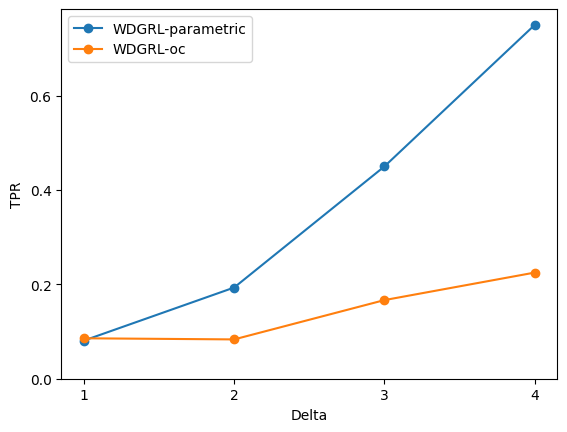
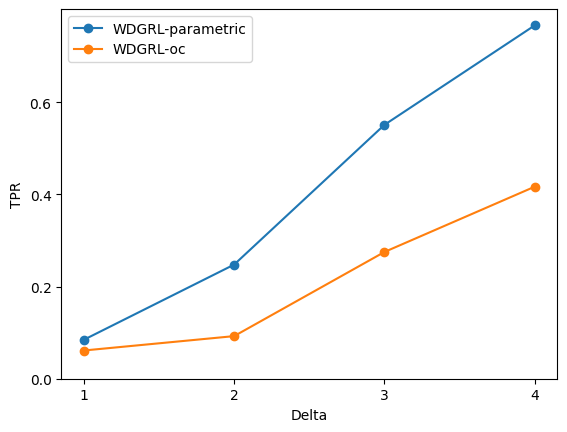
adding parametric_si for WDGRL_AE and finish running results

diff --git a/AE/parametric_tpr.py b/AE/parametric_tpr.py
@@ -2,27 +2,28 @@ from util import *
 import torch
 from multiprocessing import Pool
 import os
-from model import WDGRL
+from model import WDGRL, AutoEncoder
 import numpy as np
 
 def run_tpr(self):
-    _, delta, Model = self
+    _, delta, wdgrl, ae = self
     # Create a new instance of the WDGRL model (same architecture as before)
-    ns, nt, d = 150, 75, 1
+    ns, nt, d = 150, 25, 1
     mu_s, mu_t = 0, 2
     delta_s, delta_t = [0, 1, 2, 3, 4], [delta]
     xs, ys = gen_data(mu_s, delta_s, ns, d)
     xt, yt = gen_data(mu_t, delta_t, nt, d)
 
-    Model.generator = Model.generator.cuda()
+    wdgrl.generator = wdgrl.generator.cuda()
+    ae.net = ae.net.cuda()
 
     xs = torch.FloatTensor(xs)
     ys = torch.LongTensor(ys)
     xt = torch.FloatTensor(xt)
     yt = torch.LongTensor(yt)
 
-    xs_hat = Model.extract_feature(xs.cuda())
-    xt_hat = Model.extract_feature(xt.cuda())
+    xs_hat = wdgrl.extract_feature(xs.cuda())
+    xt_hat = wdgrl.extract_feature(xt.cuda())
     x_hat = torch.cat([xs_hat, xt_hat], dim=0)
 
     xs_hat = xs_hat.cpu()
@@ -32,8 +33,10 @@ def run_tpr(self):
     xt = xt.cpu()
     ys = ys.cpu()
     yt = yt.cpu()
-    alpha = 2.5
-    O = MAD_AD(xs_hat.numpy(), xt_hat.numpy(), alpha)
+    alpha = 0.05
+    O = AE_AD(xs_hat, xt_hat, ae, alpha)
+    reconstruction_loss = ae.reconstruction_loss(x_hat.to(ae.device))
+    reconstruction_loss = [i.item() for i in reconstruction_loss]
     # print(len(O))
     if (len(O) == 0) or (len(O) == nt):
         return None
@@ -68,7 +71,7 @@ def run_tpr(self):
     b = sigma.dot(etaj).dot(np.linalg.inv(etajTsigmaetaj))
     a = (np.identity(ns+nt) - b.dot(etaj.T)).dot(X)
     threshold = 20
-    list_zk, list_Oz = run_parametric_wdgrl(X, etaj, ns+nt, threshold, Model, ns, nt, alpha, O)
+    list_zk, list_Oz = run_parametric_si(X, etaj, ns+nt, threshold, wdgrl, ae, alpha, ns)
     CDF = cdf(etajTmu[0][0], np.sqrt(etajTsigmaetaj[0][0]), list_zk, list_Oz, etajTx[0][0], O)
     p_value = 2 * min(CDF, 1 - CDF)
     print(f'p-value: {p_value}')
@@ -86,9 +89,9 @@ if __name__ == '__main__':
     d = 1
     generator_hidden_dims = [4, 4, 2]
     critic_hidden_dims = [4, 2, 1]
-    Model = WDGRL(input_dim=d, generator_hidden_dims=generator_hidden_dims, critic_hidden_dims=critic_hidden_dims)
+    wdgrl = WDGRL(input_dim=d, generator_hidden_dims=generator_hidden_dims, critic_hidden_dims=critic_hidden_dims)
     index = None
-    with open("model/models.txt", "r") as f:
+    with open("model/wdgrl_models.txt", "r") as f:
         lines = f.readlines()
         for i, line in enumerate(lines):
             words = line[:-1].split("/")
@@ -98,11 +101,31 @@ if __name__ == '__main__':
     if index is None:
         print("Model not found")
         exit()
-    check_point = torch.load(f"model/wdgrl_{index}.pth", map_location=Model.device, weights_only=True)
-    Model.generator.load_state_dict(check_point['generator_state_dict'])
-    Model.critic.load_state_dict(check_point['critic_state_dict'])
-    Model.generator = Model.generator.cpu()
-    list_model = [Model for _ in range(max_iter)] 
+    check_point = torch.load(f"model/wdgrl_{index}.pth", map_location=wdgrl.device, weights_only=True)
+    wdgrl.generator.load_state_dict(check_point['generator_state_dict'])
+    wdgrl.critic.load_state_dict(check_point['critic_state_dict'])
+    wdgrl.generator = wdgrl.generator.cpu()
+
+    input_dim = generator_hidden_dims[-1]
+    encoder_hidden_dims = [2, 2, 1]
+    decoder_hidden_dims = [2, 2]
+    ae = AutoEncoder(input_dim=input_dim, encoder_hidden_dims=encoder_hidden_dims, decoder_hidden_dims=decoder_hidden_dims)
+    index = None
+    with open("model/ae_models.txt", "r") as f:
+        lines = f.readlines()
+        for i, line in enumerate(lines):
+            words = line[:-1].split("/")
+            if words[1] == str(input_dim) and words[2] == str(encoder_hidden_dims) and words[3] == str(decoder_hidden_dims):
+                index = i
+                break
+    if index is None:
+        print("Model not found")
+        exit()
+    check_point = torch.load(f"model/ae_{index}.pth", map_location=ae.device, weights_only=True)
+    ae.load_state_dict(check_point['state_dict'])
+    ae.net = ae.net.cpu()
+    list_wdgrl = [wdgrl for i in range(max_iter)]
+    list_ae = [ae for i in range(max_iter)]
     with open('results/tpr_parametric.txt', 'w') as f:
         f.write('')
     for delta in reversed(range(1, 5)):
@@ -110,7 +133,7 @@ if __name__ == '__main__':
         detect = 0
         list_p_value = []
         pool = Pool(initializer=np.random.seed)
-        list_result = pool.map(run_tpr, zip(range(max_iter),[delta]*max_iter, list_model))
+        list_result = pool.map(run_tpr, zip(range(max_iter),[delta]*max_iter, list_wdgrl, list_ae))
         pool.close()
         pool.join()
 

diff --git a/AE/oc_tpr.py b/AE/oc_tpr.py
@@ -2,11 +2,11 @@ from util import *
 import torch
 from multiprocessing import Pool
 import os
-from model import WDGRL
+from model import WDGRL, AutoEncoder
 import numpy as np
 
 def run_tpr(self):
-    _, delta, Model = self
+    _, delta, wdgrl, ae = self
     # Create a new instance of the WDGRL model (same architecture as before)
     ns, nt, d = 150, 75, 1
     mu_s, mu_t = 0, 2
@@ -14,15 +14,16 @@ def run_tpr(self):
     xs, ys = gen_data(mu_s, delta_s, ns, d)
     xt, yt = gen_data(mu_t, delta_t, nt, d)
 
-    Model.generator = Model.generator.cuda()
+    wdgrl.generator = wdgrl.generator.cuda()
+    ae.net = ae.net.cuda()
 
     xs = torch.FloatTensor(xs)
     ys = torch.LongTensor(ys)
     xt = torch.FloatTensor(xt)
     yt = torch.LongTensor(yt)
 
-    xs_hat = Model.extract_feature(xs.cuda())
-    xt_hat = Model.extract_feature(xt.cuda())
+    xs_hat = wdgrl.extract_feature(xs.cuda())
+    xt_hat = wdgrl.extract_feature(xt.cuda())
     x_hat = torch.cat([xs_hat, xt_hat], dim=0)
 
     xs_hat = xs_hat.cpu()
@@ -32,8 +33,11 @@ def run_tpr(self):
     xt = xt.cpu()
     ys = ys.cpu()
     yt = yt.cpu()
-    alpha = 2.5
-    O = MAD_AD(xs_hat.numpy(), xt_hat.numpy(), alpha)
+    alpha = 0.05
+    O = AE_AD(xs_hat, xt_hat, ae, alpha)
+    X_tilde = ae.forward(x_hat.to(ae.device))
+    reconstruction_loss = ae.reconstruction_loss(x_hat.to(ae.device))
+    reconstruction_loss = [i.item() for i in reconstruction_loss]
     # print(len(O))
     if (len(O) == 0) or (len(O) == nt):
         return None
@@ -65,7 +69,7 @@ def run_tpr(self):
     
     b = sigma.dot(etaj).dot(np.linalg.inv(etajTsigmaetaj))
     a = (np.identity(ns+nt) - b.dot(etaj.T)).dot(X)
-    itv = get_ad_interval(X, x_hat, ns, nt, O, a, b, Model, alpha)
+    itv = get_ad_interval(X, x_hat, X_tilde, reconstruction_loss, a, b, wdgrl, ae, alpha)
     # print(itv)
     cdf = truncated_cdf(etajTX[0][0], etajTmu[0][0], np.sqrt(etajTsigmaetaj[0][0]), itv[0], itv[1])
     p_value = float(2 * min(cdf, 1 - cdf))
@@ -83,9 +87,9 @@ if __name__ == '__main__':
     d = 1
     generator_hidden_dims = [4, 4, 2]
     critic_hidden_dims = [4, 2, 1]
-    Model = WDGRL(input_dim=d, generator_hidden_dims=generator_hidden_dims, critic_hidden_dims=critic_hidden_dims)
+    wdgrl = WDGRL(input_dim=d, generator_hidden_dims=generator_hidden_dims, critic_hidden_dims=critic_hidden_dims)
     index = None
-    with open("model/models.txt", "r") as f:
+    with open("model/wdgrl_models.txt", "r") as f:
         lines = f.readlines()
         for i, line in enumerate(lines):
             words = line[:-1].split("/")
@@ -95,11 +99,31 @@ if __name__ == '__main__':
     if index is None:
         print("Model not found")
         exit()
-    check_point = torch.load(f"model/wdgrl_{index}.pth", map_location=Model.device, weights_only=True)
-    Model.generator.load_state_dict(check_point['generator_state_dict'])
-    Model.critic.load_state_dict(check_point['critic_state_dict'])
-    Model.generator = Model.generator.cpu()
-    list_model = [Model for _ in range(max_iter)] 
+    check_point = torch.load(f"model/wdgrl_{index}.pth", map_location=wdgrl.device, weights_only=True)
+    wdgrl.generator.load_state_dict(check_point['generator_state_dict'])
+    wdgrl.critic.load_state_dict(check_point['critic_state_dict'])
+    wdgrl.generator = wdgrl.generator.cpu()
+
+    input_dim = generator_hidden_dims[-1]
+    encoder_hidden_dims = [2, 2, 1]
+    decoder_hidden_dims = [2, 2]
+    ae = AutoEncoder(input_dim=input_dim, encoder_hidden_dims=encoder_hidden_dims, decoder_hidden_dims=decoder_hidden_dims)
+    index = None
+    with open("model/ae_models.txt", "r") as f:
+        lines = f.readlines()
+        for i, line in enumerate(lines):
+            words = line[:-1].split("/")
+            if words[1] == str(input_dim) and words[2] == str(encoder_hidden_dims) and words[3] == str(decoder_hidden_dims):
+                index = i
+                break
+    if index is None:
+        print("Model not found")
+        exit()
+    check_point = torch.load(f"model/ae_{index}.pth", map_location=ae.device, weights_only=True)
+    ae.load_state_dict(check_point['state_dict'])
+    ae.net = ae.net.cpu()
+    list_wdgrl = [wdgrl for i in range(max_iter)]
+    list_ae = [ae for i in range(max_iter)]
     with open('results/tpr_oc.txt', 'w') as f:
         f.write('')
     for delta in range(1, 5):
@@ -107,7 +131,7 @@ if __name__ == '__main__':
         detect = 0
         list_p_value = []
         pool = Pool(initializer=np.random.seed)
-        list_result = pool.map(run_tpr, zip(range(max_iter),[delta]*max_iter, list_model))
+        list_result = pool.map(run_tpr, zip(range(max_iter),[delta]*max_iter, list_wdgrl, list_ae))
         pool.close()
         pool.join()
 

diff --git a/AE/parametric_fpr.py b/AE/parametric_fpr.py
@@ -8,7 +8,6 @@ import matplotlib.pyplot as plt
 from scipy.stats import kstest
 
 def run_fpr(self):
-    # np.random.seed(52907)
     _, wdgrl, ae = self
     # Create a new instance of the WDGRL model (same architecture as before)
     ns, nt, d = 150, 25, 1
@@ -17,7 +16,7 @@ def run_fpr(self):
     xs, ys = gen_data(mu_s, delta_s, ns, d)
     xt, yt = gen_data(mu_t, delta_t, nt, d)
 
-    Model.generator = Model.generator.cuda()
+    wdgrl.generator = wdgrl.generator.cuda()
     ae.net = ae.net.cuda()
 
     xs = torch.FloatTensor(xs)
@@ -25,8 +24,8 @@ def run_fpr(self):
     xt = torch.FloatTensor(xt)
     yt = torch.LongTensor(yt)
 
-    xs_hat = Model.extract_feature(xs.cuda())
-    xt_hat = Model.extract_feature(xt.cuda())
+    xs_hat = wdgrl.extract_feature(xs.cuda())
+    xt_hat = wdgrl.extract_feature(xt.cuda())
     x_hat = torch.cat([xs_hat, xt_hat], dim=0)
 
     xs_hat = xs_hat.cpu()
@@ -38,7 +37,6 @@ def run_fpr(self):
     yt = yt.cpu()
     alpha = 0.05
     O = AE_AD(xs_hat, xt_hat, ae, alpha)
-    X_tilde = ae.forward(x_hat.to(ae.device))
     reconstruction_loss = ae.reconstruction_loss(x_hat.to(ae.device))
     reconstruction_loss = [i.item() for i in reconstruction_loss]
     # print(O)
@@ -59,7 +57,7 @@ def run_fpr(self):
     etajTx = etaj.T.dot(X)
     
     # print(f'Anomaly indexes: {O}')
-    print(f'etajTX: {etajTx}')
+    # print(f'etajTX: {etajTx}')
     mu = np.vstack((np.full((ns,1), mu_s), np.full((nt,1), mu_t)))
     sigma = np.identity(ns+nt)
     etajTmu = etaj.T.dot(mu)
@@ -67,7 +65,7 @@ def run_fpr(self):
     b = sigma.dot(etaj).dot(np.linalg.inv(etajTsigmaetaj))
     a = (np.identity(ns+nt) - b.dot(etaj.T)).dot(X)
     threshold = 20
-    list_zk, list_Oz = run_parametric_si(X, etaj, ns+nt, threshold, wdgrl, ae, alpha)
+    list_zk, list_Oz = run_parametric_si(X, etaj, ns+nt, threshold, wdgrl, ae, alpha, ns)
     CDF = cdf(etajTmu[0][0], np.sqrt(etajTsigmaetaj[0][0]), list_zk, list_Oz, etajTx[0][0], O)
     p_value = 2 * min(CDF, 1 - CDF)
     print(f'p-value: {p_value}')
@@ -118,7 +116,7 @@ if __name__ == '__main__':
     ae.load_state_dict(check_point['state_dict'])
     ae.net = ae.net.cpu()
 
-    max_iter = 2000
+    max_iter = 1000
     alpha = 0.05
     list_wdgrl = [wdgrl for i in range(max_iter)]
     list_ae = [ae for i in range(max_iter)]

diff --git a/AE/util.py b/AE/util.py
@@ -108,7 +108,7 @@ def AE_AD(Xs, Xt, ae, alpha):
     #Take 5% largest in reconstruction loss
     O = np.argsort(reconstruction_loss)[-int(alpha*len(reconstruction_loss)):]
     O = [i - Xs.shape[0] for i in O if i >= Xs.shape[0]]
-    return O
+    return np.sort(O)
 
 def get_ad_interval(X, X_hat, X_tilde, reconstruction_loss, a, b, wdgrl, ae, alpha):
     itv = [np.NINF, np.Inf]
@@ -163,18 +163,18 @@ def compute_yz(X, etaj, zk, n):
 def max_sum(X):
     return 0
 
-def parametric_si(Xz, a, b, zk, wdgrl, ae, alpha):
-    Xz = torch.FloatTensor(Xz)
-    Xz_hat = wdgrl.extract_feature(Xz.cuda())
-    Xz_tilde = ae.forward(Xz_hat)
-    reconstruction_loss = ae.reconstruction_loss(Xz_hat)
+def parametric_si(Xz, a, b, zk, wdgrl, ae, alpha, ns):
+    Xz = torch.FloatTensor(Xz).cpu()
+    Xz_hat = wdgrl.extract_feature(Xz.to(wdgrl.device)).cpu()
+    Xz_tilde = ae.forward(Xz_hat.to(ae.device)).cpu()
+    reconstruction_loss = ae.reconstruction_loss(Xz_hat.to(ae.device))
     reconstruction_loss = [i.item() for i in reconstruction_loss]
-    Oz = [max_sum(Xz_hat.cpu().numpy())]
+    Oz = AE_AD(Xz_hat[:ns], Xz_hat[ns:], ae, alpha)
     itv = get_ad_interval(Xz, Xz_hat, Xz_tilde, reconstruction_loss, a, b, wdgrl, ae, alpha)
     return itv[1] - min(zk, itv[1]), Oz
 
 
-def run_parametric_si(X, etaj, n, threshold, wdgrl, ae, alpha):
+def run_parametric_si(X, etaj, n, threshold, wdgrl, ae, alpha, ns):
     zk = -threshold
 
     list_zk = [zk]
@@ -182,13 +182,10 @@ def run_parametric_si(X, etaj, n, threshold, wdgrl, ae, alpha):
 
     while zk < threshold:
         Xz, a, b = compute_yz(X, etaj, zk, n)
-        skz, Oz = parametric_si(Xz, a, b, zk, wdgrl, ae, alpha)
+        skz, Oz = parametric_si(Xz, a, b, zk, wdgrl, ae, alpha, ns)
         zk = zk + skz + 1e-3 
         # zk = min(zk, threshold)
-        if zk < threshold:
-            list_zk.append(zk)
-        else:
-            list_zk.append(threshold)
+        list_zk.append(zk)
         list_Oz.append(Oz)
         # print(f'intervals: {zk-skz-1e-3} - {zk -1e-3}')
         # print(f'Anomaly index: {Oz}')
